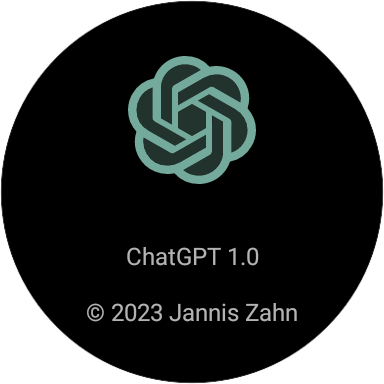
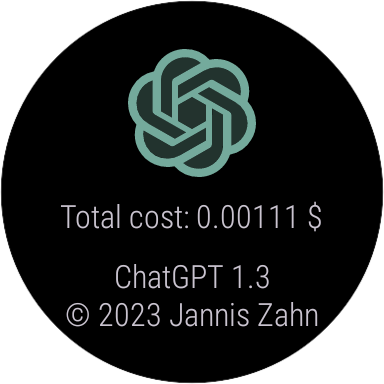
Updated README and new screenshots

diff --git a/README.md b/README.md
@@ -7,7 +7,7 @@
 | ![saved_chats.png](https://raw.githubusercontent.com/DevEmperor/ChatGPT-WearOS/master/img/saved_chats.png) | ![edit.png](https://raw.githubusercontent.com/DevEmperor/ChatGPT-WearOS/master/img/edit.png) | ![settings.png](https://raw.githubusercontent.com/DevEmperor/ChatGPT-WearOS/master/img/settings.png) | ![about.png](https://raw.githubusercontent.com/DevEmperor/ChatGPT-WearOS/master/img/about.png) |
 
 #### Or maybe a showcase video?
-[![Showcase](https://raw.githubusercontent.com/DevEmperor/ChatGPT-WearOS/master/img/player.png)](https://streamable.com/g0lr4c "Showcase")
+[![Showcase](https://raw.githubusercontent.com/DevEmperor/ChatGPT-WearOS/master/img/player.png)](https://streamable.com/nwd4pu "Showcase")
 
 
 ## Installation
@@ -17,7 +17,7 @@ I plan to release the app to the PlayStore as soon as possible. Until then, you 
 1. **Enable developer options on your watch:** Open the watch's **Settings**. Tap **System > About**. Scroll to **Build number** and tap the build number seven times. A dialog appears confirming that you are now a developer.
 2. **Enable Wi-Fi debugging:** Open the watch's **Settings**. Tap **Developer options > Debug over Wi-Fi**. After a moment, the screen displays the watch's IP address, such as `192.168.1.100`. You need this for the next step, so make a note of it.
 3. **Connect the debugger to the watch:** Connect the debugger to the watch using the watch's IP address and a port  number. For example, if the IP address is `192.168.1.100` and the port number is `5555`, the  `adb connect` command look like this: `adb connect 192.168.1.100:5555`
-4. **Install the ADB:** `adb install ChatGPT_WearOS_1.0.apk`
+4. **Install the ADB:** `adb install ChatGPT_WearOS_1.3.apk`
 
 If this explanation was not enough, you can find a detailed explanation [here](https://www.guidingtech.com/how-to-install-apks-on-wear-os-smartwatches/).
 
@@ -27,8 +27,9 @@ If this explanation was not enough, you can find a detailed explanation [here](h
 
 The app is overall very self-explanatory, but there are a few things to keep in mind:
 
-- Before the first use, an API key must be set in the settings. 
-  You can **get an API key for one month for free from [OpenAI](https://platform.openai.com/)**, after that you have to specify a credit card, because the usage costs a little money (< 1$).
+- Before the first use, an API key must be set in the settings. There are two options for this:
+  1. You can get an API key for one month for free from [OpenAI](https://platform.openai.com/), after that you have to specify a credit card, because the usage costs a little money (< 1$).
+  2. You can visit [this community project](https://github.com/PawanOsman/ChatGPT#use-our-hosted-api-reverse-proxy) and get a free API key to this API proxy. If you choose this option, you will have to change the API host in the settings.
 - After the first request in a chat, a Save-button appears, which saves the entire chat (including future ones).
 - With a touch on a saved chat, a new interface appears to change the title or delete it.
 - If you click on the About activity, you'll find the total cost of all your requests. A long press on this label resets it.
@@ -43,6 +44,7 @@ The app is overall very self-explanatory, but there are a few things to keep in 
 - [x] show total consumption in settings
 - [x] reset button for long chats
 - [x] order saved chats by latest edits
+- [x] option to choose pawan.krd as API host
 - [ ] possibility to switch between GPT 3.5 and GPT 4 (as soon as access is possible)
 - [ ] intro explaining how to generate an API key
 - [ ] PlayStore release
